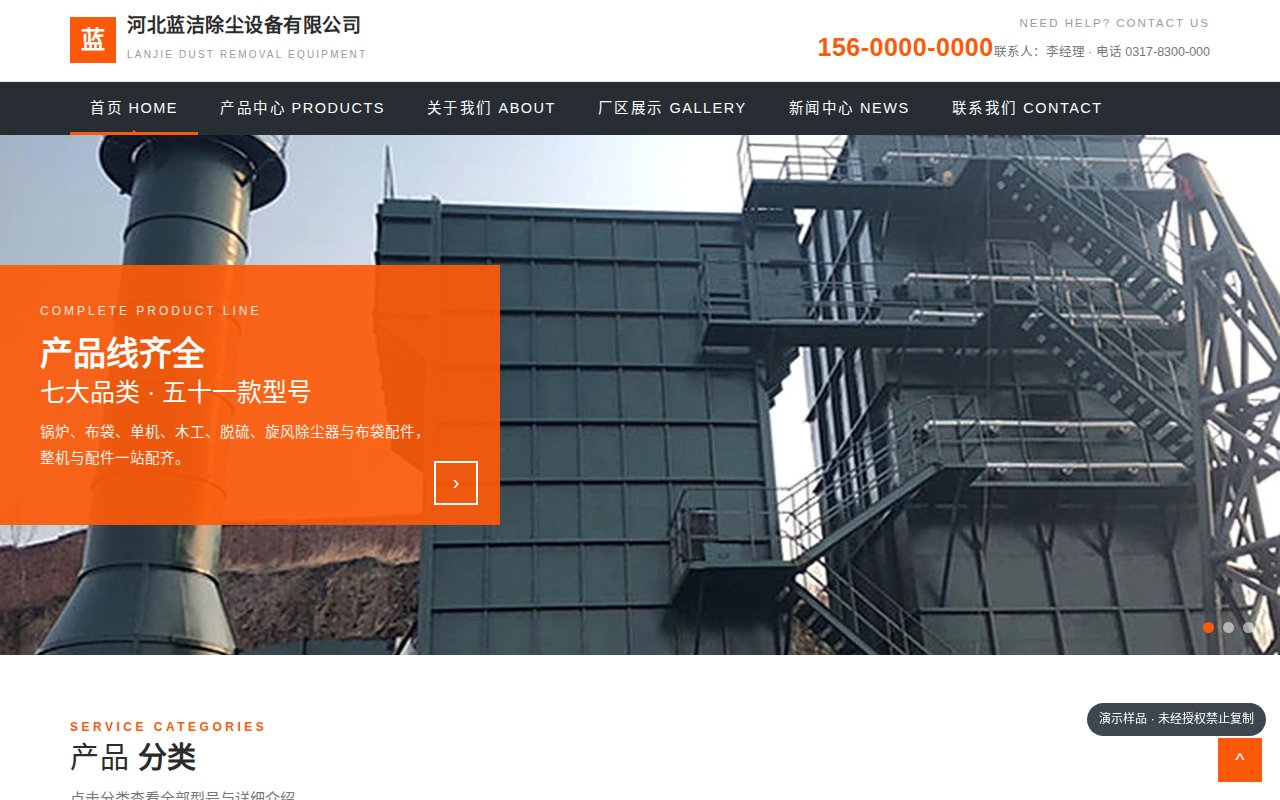
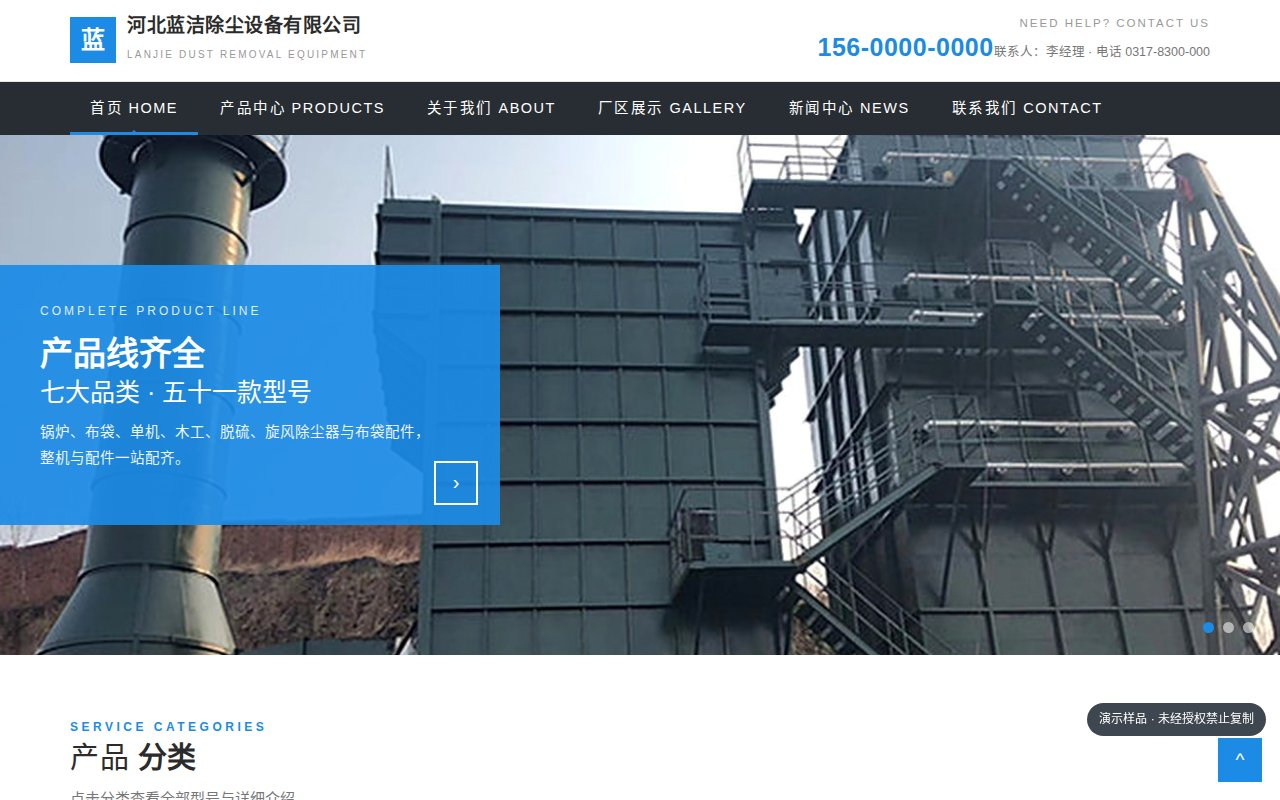
配色原则落地：新版沿用原站色系——科惠原站主色 #1c8be5 蓝系，T03 强调色由橙改蓝（结构不变）；龙山原站绿系与现行 T04 绿色一致

diff --git a/demo/case-dust/style.css b/demo/case-dust/style.css
@@ -1,4 +1,4 @@
-:root{--org:#fc5a0a;--blk:#272d33;--blk2:#1d2126;--ink:#2b2b2b;--mut:#777;--line:#e6e6e6;--wa:1180px}
+:root{--org:#1c8be5;--blk:#272d33;--blk2:#1d2126;--ink:#2b2b2b;--mut:#777;--line:#e6e6e6;--wa:1180px}
 *{margin:0;padding:0;box-sizing:border-box}
 body{font-family:"PingFang SC","Hiragino Sans GB","Microsoft YaHei",sans-serif;color:var(--ink);font-size:15px;line-height:1.75;background:#fff;-webkit-text-size-adjust:100%}
 img{display:block;max-width:100%}
@@ -26,7 +26,7 @@ a{color:inherit;text-decoration:none}
 .slide.on{opacity:1}
 .slide img{width:100%;height:100%;object-fit:cover}
 .panel{position:absolute;left:0;top:50%;transform:translateY(-50%);width:min(500px,88vw);padding:36px 40px 54px}
-.panel.org{background:rgba(252,90,10,.93);color:#fff}
+.panel.org{background:rgba(28,139,229,.93);color:#fff}
 .panel.dark{background:rgba(23,26,30,.88);color:#fff}
 .panel.white{background:rgba(255,255,255,.93);color:var(--ink)}
 .panel .en{font-size:12px;letter-spacing:3px;opacity:.85;text-transform:uppercase}
